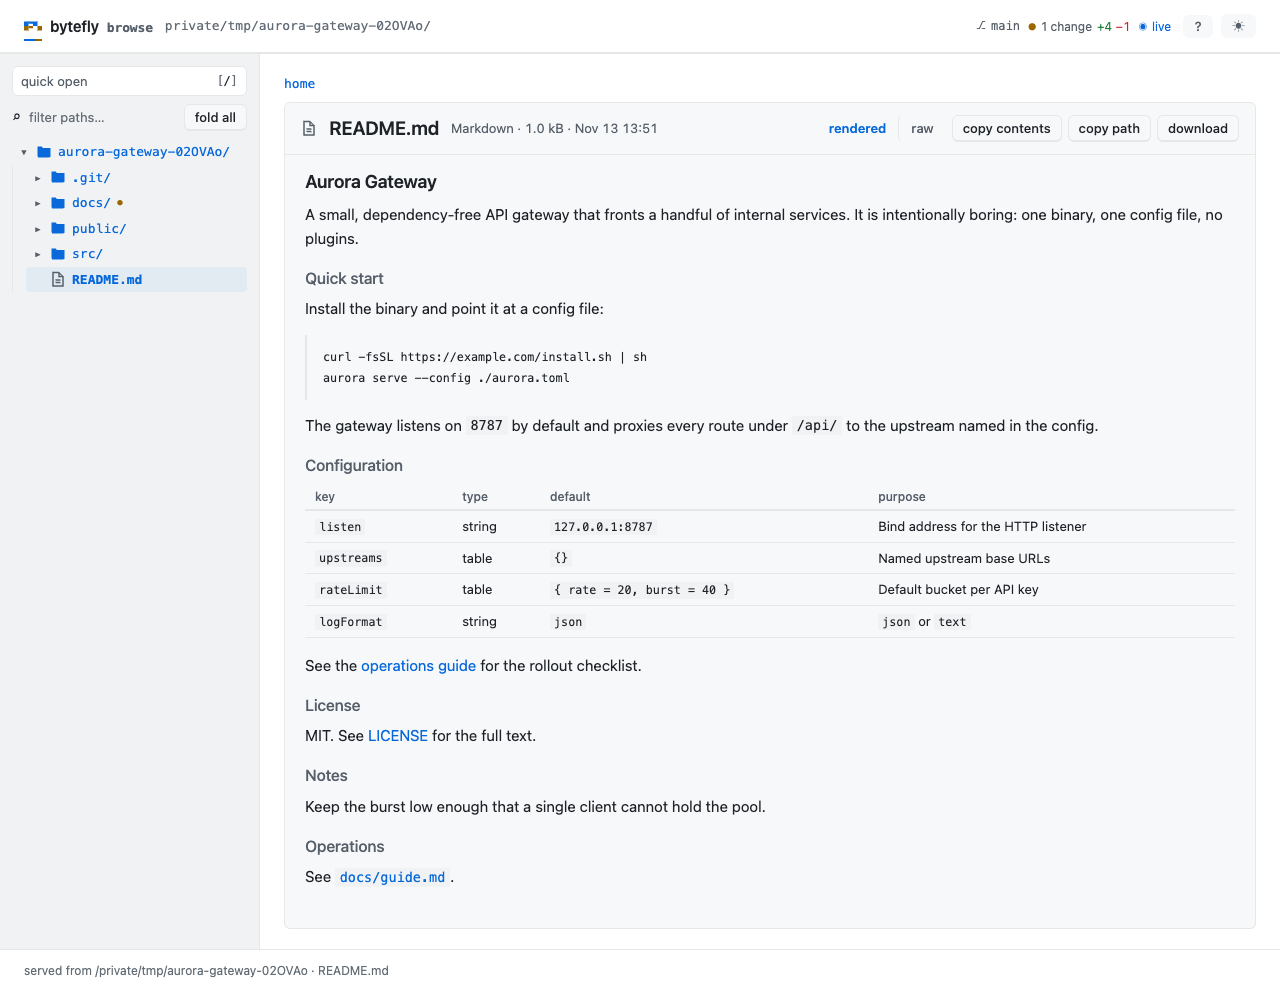
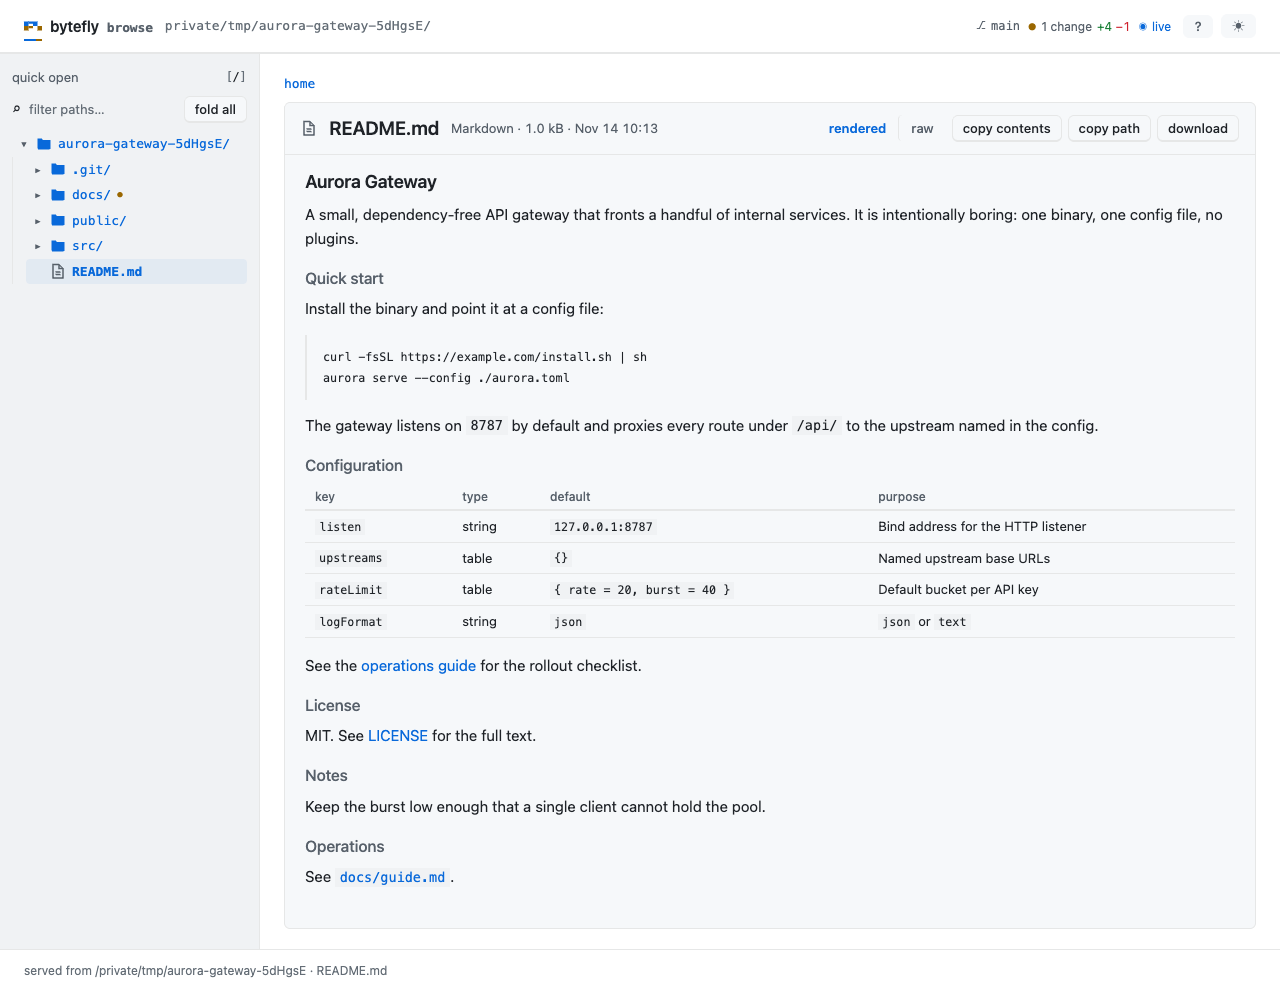
refactor(lib): let the kit own the small button and the quick-open

Changed region(s): [[0.0, 0.0625, 0.1875, 0.3125], [0.2188, 0.9688, 0.3125, 1.0], [0.3125, 0.0, 0.3438, 0.0312]]

diff --git a/extensions/plan/web-page.ts b/extensions/plan/web-page.ts
@@ -51,7 +51,6 @@ ${WEB_COMPONENTS_CSS}
 .review-share__who{flex:0 0 auto;font:var(--fs-xs) var(--font-ui);color:var(--muted)}
 .review-share__who--bound{color:var(--accent)}
 .review-share__actions{display:flex;flex:0 0 auto;gap:4px}
-.review-share__actions .bf-btn{padding:1px 8px;font-size:var(--fs-xs)}
 .review-share__qr{display:flex;justify-content:center;margin:0 0 var(--space-3)}
 .review-share__qr svg{width:168px;height:168px;background:#fff;border-radius:var(--radius-md);padding:var(--space-1)}
 .bf-review{--review-measure:1012px;--review-rail:26px;--review-gutter:34px;flex:1 1 auto;padding:var(--space-5) var(--space-6) 120px}
@@ -81,9 +80,8 @@ ${WEB_COMPONENTS_CSS}
 /* A reviewer's identity is a fact about them, not one of the page's actions: the name control
    wears the quiet chrome the toolbar gives a control that is not the page's own. */
 .review-identity{display:flex;align-items:center;gap:var(--space-2)}
-.review-identity .bf-btn{border-color:transparent;color:var(--muted);padding:0;font-size:var(--fs-xs)}
-.review-identity .bf-btn:hover{border-color:transparent;color:var(--accent)}
-.review-identity .bf-btn:disabled{opacity:1;color:var(--text)}
+.review-identity .bf-btn--ghost{font-size:var(--fs-xs);color:var(--muted)}
+.review-identity .bf-btn--ghost:disabled{opacity:1;color:var(--text)}
 /* Review panel: the reader's finish block, the facts that role is owed, the view switch, the
    section outline, then the keys. */
 .bf-app__body--single{grid-template-columns:minmax(0,1fr)}
@@ -145,7 +143,6 @@ ${WEB_COMPONENTS_CSS}
 .bf-comment--resolved{opacity:.72}
 .bf-comment__resolved{font:var(--fw-medium) var(--fs-xs) var(--font-ui);color:var(--success)}
 .bf-comment__actions{display:flex;gap:4px}
-.bf-comment__actions .bf-btn{padding:1px 8px;font-size:var(--fs-xs)}
 /* A quote is read at the record's own line height, not the document's: it is one line of context. */
 .bf-comment__body{line-height:var(--lh-snug)}
 .bf-composer{margin:0}
@@ -284,7 +281,7 @@ export function renderReviewPage(data: ReviewPageData): string {
 	const identity =
 		data.role === "reviewer"
 			? `
-<div class="review-identity"><button type="button" class="bf-btn" id="reviewer-name" hidden></button></div>`
+<div class="review-identity"><button type="button" class="bf-btn bf-btn--ghost" id="reviewer-name" hidden></button></div>`
 			: "";
 	const outlinePanel = hasOutline
 		? `<details class="bf-app__sidebar review-outline" open>

diff --git a/lib/web/components.ts b/lib/web/components.ts
@@ -74,6 +74,9 @@ export const WEB_COMPONENTS_CSS = `.bf-brand{position:relative;display:inline-fl
 .bf-btn--ghost{border-color:transparent;border-bottom-width:0;background:none;padding:0;font:inherit;letter-spacing:normal;text-transform:none;color:inherit}
 .bf-btn--ghost:hover{color:var(--accent);background:none}
 .bf-btn--icon{min-width:30px;text-align:center;line-height:1}
+/* The inline action: a row's Copy, Resolve or Delete sits inside the row's own line height, so
+   it is the button at the size of the text it acts on rather than the page's control size. */
+.bf-btn--sm{padding:1px 8px;font-size:var(--fs-xs)}
 .bf-btn:disabled{opacity:.5;cursor:default}
 .theme-glyph{font-size:var(--fs-md)}
 /* A key is a bracket, not a key cap: [j] reads as one in mono and needs no drawn box. */
@@ -99,6 +102,11 @@ export const WEB_COMPONENTS_CSS = `.bf-brand{position:relative;display:inline-fl
 /* The prompt glyph is the kit's own, so a page writes the slot empty and no page spells it. */
 .bf-field__prompt::before{content:"❯"}
 .bf-field:focus-within .bf-field__prompt{color:var(--accent)}
+/* The prompt line as a button: a side panel's "type to jump" control is the field it stands for,
+   not an action beside the filter. It keeps the base rule and gains only a button's own facts —
+   the label and its key on one line, a pointer, and no user-agent chrome. */
+.bf-field--button{width:100%;align-items:center;justify-content:space-between;padding:3px 0 2px;border:0;border-bottom:1px solid transparent;background:none;color:var(--muted);font:var(--fs-sm) var(--font-ui);text-align:left;cursor:pointer}
+.bf-field--button:hover,.bf-field--button:focus-visible{border-bottom-color:var(--accent);color:var(--accent)}
 .bf-input{border:0;background:transparent;color:var(--text);font:var(--fs-sm) var(--font-ui);width:100%;outline:none}
 .bf-input::placeholder{color:var(--dim)}
 /* The field's rule is the ring: a second outline inside it drew a border within a border. */

diff --git a/extensions/plan/web-comments.ts b/extensions/plan/web-comments.ts
@@ -273,9 +273,9 @@ export const WEB_COMMENTS_JS = String.raw`  function selectionIn(wrap) {
       head.appendChild(el("span", "bf-comment__spacer"));
       if (isMine(annotation)) {
         var actions = el("div", "bf-comment__actions");
-        var edit = el("button"); edit.type = "button"; edit.className = "bf-btn"; edit.textContent = "Edit";
+        var edit = el("button"); edit.type = "button"; edit.className = "bf-btn bf-btn--sm"; edit.textContent = "Edit";
         edit.addEventListener("click", function () { startEdit(card, index); });
-        var settle = el("button"); settle.type = "button"; settle.className = "bf-btn";
+        var settle = el("button"); settle.type = "button"; settle.className = "bf-btn bf-btn--sm";
         settle.textContent = annotation.resolved ? "Reopen" : "Resolve";
         settle.addEventListener("click", function () {
           if (annotation.resolved) delete annotation.resolved;
@@ -284,7 +284,7 @@ export const WEB_COMMENTS_JS = String.raw`  function selectionIn(wrap) {
           renderAll();
           setStatus(annotation.resolved ? "Comment resolved." : "Comment reopened.");
         });
-        var remove = el("button"); remove.type = "button"; remove.className = "bf-btn"; remove.textContent = "Delete";
+        var remove = el("button"); remove.type = "button"; remove.className = "bf-btn bf-btn--sm"; remove.textContent = "Delete";
         remove.addEventListener("click", function () { removeComment(index); });
         actions.appendChild(settle); actions.appendChild(edit); actions.appendChild(remove); head.appendChild(actions);
       }

diff --git a/extensions/plan/web-page.test.ts b/extensions/plan/web-page.test.ts
@@ -266,6 +266,24 @@ describe("the page's chrome", () => {
 		expect(REVIEW_CSS).toContain(".review-bar .bf-context--subject{direction:ltr;text-align:left}");
 	});
 
+	test("wears the kit's inline button and quiet control instead of sizing its own", () => {
+		for (const rule of [
+			".review-share__actions .bf-btn{",
+			".bf-comment__actions .bf-btn{",
+			".review-identity .bf-btn{",
+		]) {
+			expect(REVIEW_CSS, rule).not.toContain(rule);
+		}
+		// What is the page's own: the name a reviewer signs with is smaller than a control, and
+		// a bound link must not fade the name it holds.
+		expect(REVIEW_CSS).toContain(".review-identity .bf-btn--ghost{font-size:var(--fs-xs);color:var(--muted)}");
+		expect(REVIEW_CSS).toContain(".review-identity .bf-btn--ghost:disabled{opacity:1;color:var(--text)}");
+		expect(reviewPage({ role: "reviewer" })).toContain('class="bf-btn bf-btn--ghost" id="reviewer-name"');
+		// The row actions are the small button, and the composer's own row is not: it is a
+		// dialog-sized action, not one inside a line of text.
+		expect(REVIEW_CLIENT_JS).toContain('"bf-btn bf-btn--sm"');
+	});
+
 	test("draws the view switch as the kit's tabs, with the current view marked", () => {
 		// The kit renamed the segmented control to tabs; a page that kept the old class drew three bare
 		// buttons with no current mark, which is a dead class and not a style choice.

diff --git a/extensions/file-browse/view/styles.ts b/extensions/file-browse/view/styles.ts
@@ -21,8 +21,8 @@ ${WEB_LAYOUT_CSS}
 ${WEB_COMPONENTS_CSS}
 .browse-side{padding:var(--space-3)}
 .browse-git{font-family:var(--font-mono)}
-.browse-quick-open{display:flex;align-items:center;justify-content:space-between;gap:var(--space-2);width:100%;margin-bottom:var(--space-2);padding:6px var(--space-2);border:1px solid var(--border);border-radius:var(--radius-md);background:var(--canvas);color:var(--muted);font:var(--fs-sm) var(--font-ui);cursor:pointer}
-.browse-quick-open:hover{border-color:var(--accent);color:var(--accent)}
+/* The quick-open wears the kit's prompt line; the panel owns only the gap under it. */
+.browse-side .bf-field--button{gap:var(--space-2);margin-bottom:var(--space-2)}
 .browse-side__filters{display:flex;align-items:center;gap:var(--space-2);margin-bottom:var(--space-2)}
 .browse-side__filters .bf-field{flex:1 1 auto;min-width:0}
 .browse-side__filters .bf-btn{flex:0 0 auto;white-space:nowrap}

diff --git a/extensions/file-browse/view/html.ts b/extensions/file-browse/view/html.ts
@@ -127,7 +127,7 @@ ${SPRITE}
   <details class="bf-app__sidebar browse-sidebar" open>
     <summary class="bf-panel__summary">Files</summary>
     <aside class="bf-panel browse-side">
-      <button type="button" class="browse-quick-open" id="quick-open" aria-haspopup="dialog"><span>quick open</span><kbd class="bf-kbd">/</kbd></button>
+      <button type="button" class="bf-field bf-field--button" id="quick-open" aria-haspopup="dialog"><span>quick open</span><kbd class="bf-kbd">/</kbd></button>
       <div class="browse-side__filters">
         <label class="bf-field">⌕ <input class="bf-input" id="filter" type="search" placeholder="filter paths…" aria-label="Filter paths"></label>
         <button type="button" class="bf-btn" id="fold-all" title="Fold or expand every folder">fold all</button>

diff --git a/extensions/file-browse/view/chrome.test.ts b/extensions/file-browse/view/chrome.test.ts
@@ -106,3 +106,14 @@ describe("the kit's names", () => {
 		).toEqual([]);
 	});
 });
+
+describe("the sidebar", () => {
+	test("draws the quick-open as the kit's prompt line, not a box of its own", () => {
+		// The panel speaks in prompt lines (the filter one row below); a bordered control would
+		// read as an action beside that field. The shape is the kit's `bf-field--button` now, and
+		// the page keeps only the gap under it.
+		expect(directoryPage()).toContain('class="bf-field bf-field--button" id="quick-open"');
+		expect(BROWSE_CSS).not.toContain(".browse-quick-open");
+		expect(BROWSE_CSS).toContain(".browse-side .bf-field--button{gap:var(--space-2);margin-bottom:var(--space-2)}");
+	});
+});

diff --git a/test/suite-sizes.test.ts b/test/suite-sizes.test.ts
@@ -40,6 +40,7 @@ const LONG_SUITES: Record<string, number> = {
 	"extensions/file-browse/files/files.test.ts": 911,
 	"extensions/file-browse/transport/router.test.ts": 867,
 	"extensions/file-browse/view/pages.test.ts": 1433,
+	"extensions/plan/web-page.test.ts": 411,
 	"extensions/file-read/tool.test.ts": 696,
 	"extensions/goal/extension.test.ts": 724,
 	"extensions/goal/tools.test.ts": 792,

diff --git a/extensions/plan/web-collab.ts b/extensions/plan/web-collab.ts
@@ -47,7 +47,7 @@ export const WEB_COLLAB_JS = String.raw`  /**
   }
 
   function rowButton(label, onClick) {
-    var button = el("button", "bf-btn");
+    var button = el("button", "bf-btn bf-btn--sm");
     button.type = "button";
     button.textContent = label;
     button.addEventListener("click", onClick);

diff --git a/lib/web/README.md b/lib/web/README.md
@@ -216,11 +216,12 @@ reason are in `layout.ts`.
 ## The `bf-*` kit
 
 `bf-` marks the kit: brand and mark, toolbar and `bf-spacer`, title, context, buttons
-(`--primary`, `--ghost`, `--icon`, `--danger`), tags and their tones, tabs, field and
-input, textarea, panel, gauge, status, note, badge, empty state, dialog (head, body,
-actions, status, input, list, option), shortcut sheet and `bf-kbd`, tree, crumbs, table
-and sort, record, row, lane, section, live state and reload, code, media, Markdown body,
-comment, composer, and quote chip.
+(`--primary`, `--ghost`, `--icon`, `--danger`, `--sm` for one inside a line of text),
+tags and their tones, tabs, field and input (`--button` is the prompt line a control
+wears when it opens one), textarea, panel, gauge, status, note, badge, empty state,
+dialog (head, body, actions, status, input, list, option), shortcut sheet and `bf-kbd`,
+tree, crumbs, table and sort, record, row, lane, section, live state and reload, code,
+media, Markdown body, comment, composer, and quote chip.
 
 Four of those are renames: what the kit called a chip is a tag, a segmented control is a
 tab, progress is a gauge, and a card is a record.

diff --git a/CHANGELOG.md b/CHANGELOG.md
@@ -61,6 +61,10 @@ to [Semantic Versioning](https://semver.org/spec/v2.0.0.html).
 
 ### Changed
 
+- lib: the kit owns three controls a page used to draw for itself — `bf-btn--sm` for an
+  action inside a line of text, `bf-field--button` for the prompt line a quick-open wears, and
+  the review's quiet identity control moving onto `bf-btn--ghost`.
+
 - `lib`: one scan of a Markdown document's blocks, in `lib/web/markdown-blocks.ts`. The review's
   comment anchors and browse's README rendering were classified by two scanners with their own
   heading, fence, table, list and quote rules; the kit now owns the scan (and the cell splitter and
